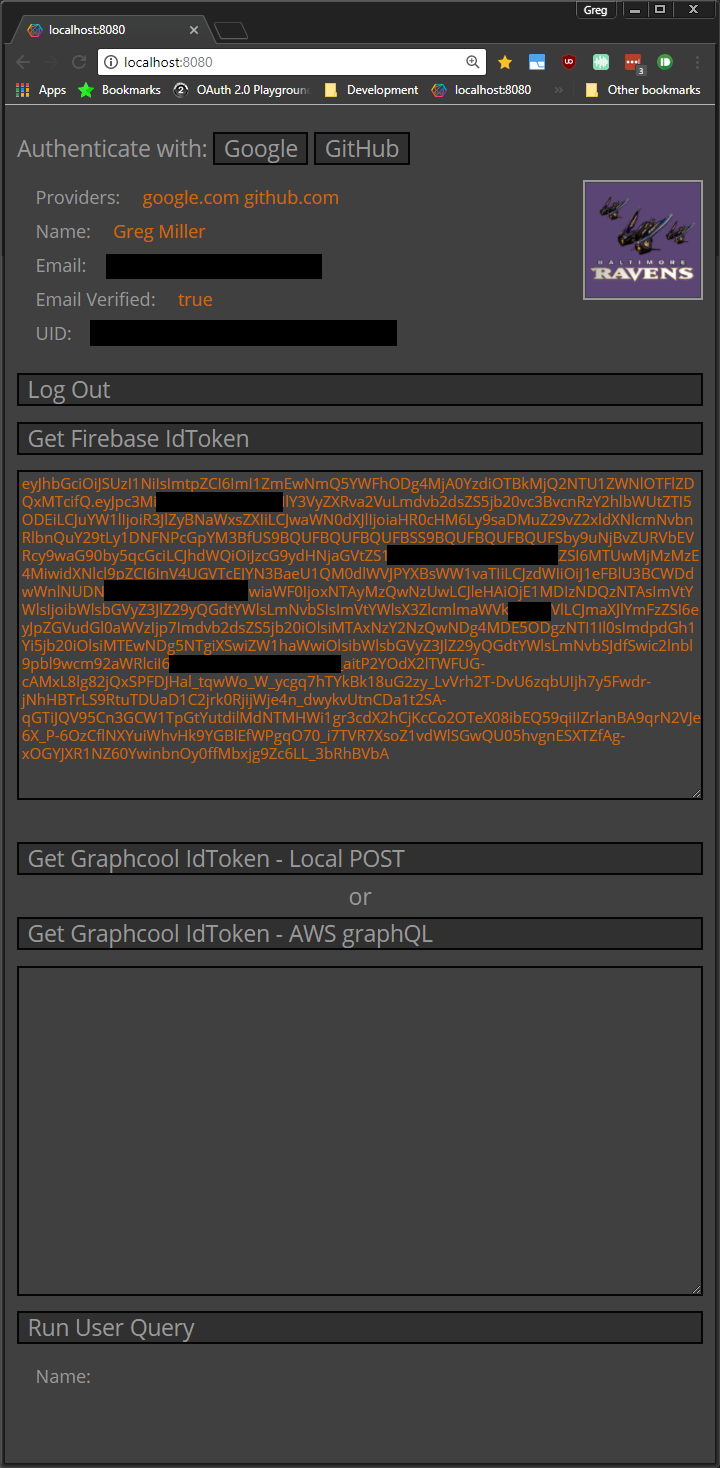
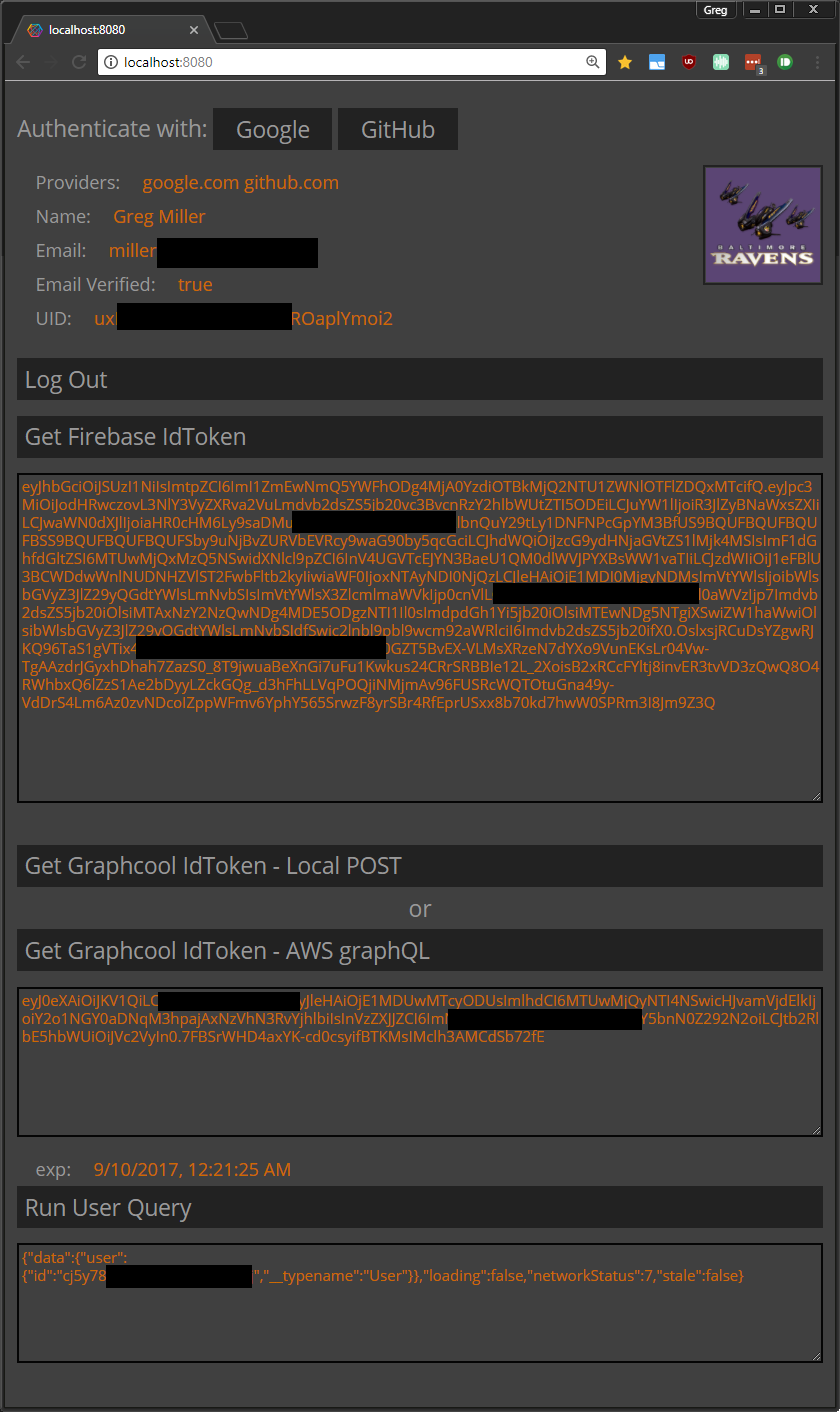
added exp to result

diff --git a/examples/one-page/index.js b/examples/one-page/index.js
@@ -80,6 +80,7 @@ function getFirebaseIdToken() {
 
 function getGraphcoolTokenViaPOST(endPoint) {
   populateGraphcoolIdToken("loading...");
+  populateGraphcoolExp();
   const firebaseIdToken = _.escape(
     document.getElementById("firebaseIdTokenTextArea").value
   );
@@ -97,14 +98,26 @@ function getGraphcoolTokenViaPOST(endPoint) {
     })
   };
 
+  // all the thens to demonstrate unpacking of the object
   fetch(endPoint, reqInit)
-    .then(function(res) {
+    .then(res => {
       return res.json();
     })
-    .then(function(json) {
-      populateGraphcoolIdToken(json.data.token);
+    .then(json => {
+      console.log(json);
+      return json.data;
     })
-    .catch(function(error) {
+    .then(data => {
+      console.log(data);
+      return JSON.parse(data.wrappedToken);
+    })
+    .then(wrappedToken => {
+      console.log(wrappedToken);
+      populateGraphcoolIdToken(wrappedToken.token);
+      populateGraphcoolExp(wrappedToken.exp);
+      return;
+    })
+    .catch(error => {
       populateGraphcoolIdToken(error);
     });
 }
@@ -118,7 +131,7 @@ function getGraphcoolTokenViaGQL() {
   const authenticateFirebaseUser = `
     mutation ($firebaseIdToken: String!) {
       authenticateFirebaseUser(firebaseIdToken: $firebaseIdToken) {
-        token
+        wrappedToken
       }
     }
   `;
@@ -132,7 +145,9 @@ function getGraphcoolTokenViaGQL() {
       } else if (res.error) {
         populateGraphcoolIdToken(res.error);
       } else {
-        populateGraphcoolIdToken(res.data.authenticateFirebaseUser.token);
+        const wrappedToken = JSON.parse(res.data.authenticateFirebaseUser.wrappedToken);
+        populateGraphcoolIdToken(wrappedToken.token);
+        populateGraphcoolExp(wrappedToken.exp);
       }
     })
     .catch(err => {
@@ -149,20 +164,10 @@ function runUserQuery() {
   networkInterface.use([
     {
       applyMiddleware(request, next) {
-        console.log(request);
         if (!request.options.headers) {
           request.options.headers = {};
         }
         request.options.headers["authorization"] = `Bearer ${graphcoolIdToken}`;
-        console.log(request);
-        next();
-      }
-    }
-  ]);
-  networkInterface.useAfter([
-    {
-      applyAfterware({ response }, next) {
-        console.log(response);
         next();
       }
     }
@@ -221,6 +226,17 @@ function populateFirebaseIdToken(token) {
 
 function populateGraphcoolIdToken(token) {
   document.getElementById("graphcoolIdTokenTextArea").value = token;
+}
+
+function populateGraphcoolExp(exp) {
+  if (exp) {
+    var myDate = new Date( exp *1000);
+    // document.write(myDate.toGMTString()+"<br>"+myDate.toLocaleString());
+    document.getElementById("graphcoolTokenExp").innerText = myDate.toLocaleString();
+    }
+    else {
+      document.getElementById("graphcoolTokenExp").innerText = "";
+    }
 }
 
 function populateQueriedUser(response) {

diff --git a/examples/one-page/build/dark-theme.css b/examples/one-page/build/dark-theme.css
@@ -55,6 +55,7 @@ body, textarea, input, button {
 	top:  0px;
 	position: absolute;
 	border: 1px solid;
+	border-color: #222222;
 }
 
 #container {
@@ -65,12 +66,13 @@ body, textarea, input, button {
 }
 
 button {
-	display: inline-flex;
-  border: 1px solid;
-  background-color: #303030;
-  border-color: #050505;
-  margin-bottom: 10px;
-  width: 100%;
+	display: inline-block;
+	border: 0;
+	background-color: #222222;
+	margin-bottom: 10px;
+	padding: 5px;
+	width: 100%;
+	/* text-align: center; */
 }
 
 button#testPostFunctionDebug {
@@ -89,13 +91,21 @@ button#testGQL {
   text-align: center;
 }
 
-button#authenticateWithGoogle, button#authenticateWithGitHub {
+button.provider {
   width: unset;
+  padding-left: 15px;
+  padding-right: 15px;
 }
+
 textarea#graphcoolIdTokenTextArea {
 	height: 100px;
+	margin-bottom: 0px;
 }
 
 textarea#queriedGraphcoolUserTextArea {
   height: 80px;
+}
+
+button#runUserQuery {
+  margin-top: 10px;
 }

diff --git a/examples/one-page/build/index.html b/examples/one-page/build/index.html
@@ -8,8 +8,8 @@
   <script src="bundle.js"></script>
   <div id="container">
     <span>Authenticate with:</span>
-    <button id="authenticateWithGoogle">Google</button>
-    <button id="authenticateWithGitHub">GitHub</button>
+    <button class="provider" id="authenticateWithGoogle">Google</button>
+    <button class="provider" id="authenticateWithGitHub">GitHub</button>
     <div id="userInfoContainer">
       <div class="row">
         <span>Providers: </span>
@@ -44,6 +44,10 @@
     <button id="testGQL">Get Graphcool IdToken - AWS graphQL</button>
     <br>
     <textarea class="textArea" id="graphcoolIdTokenTextArea"></textarea>
+    <div class="row">
+      <span>exp: </span>
+      <span class="userInfo" type="text" id="graphcoolTokenExp"></span>
+    </div>
     <button id="runUserQuery">Run User Query</button>
     <textarea class="textArea" id="queriedGraphcoolUserTextArea"></textarea>
 </body>

diff --git a/src/firebase-auth.js b/src/firebase-auth.js
@@ -6,6 +6,7 @@
 
 import * as admin from "firebase-admin";
 import Graphcool, { fromEvent } from "graphcool-lib";
+const jwt = require("jsonwebtoken");
 const lambdaProxy = require("lambda-proxy-response");
 
 const pat = process.env.graphcoolPAT;
@@ -55,8 +56,14 @@ export const AuthenticateFirebaseToken = async (event: any) => {
       graphcoolUserId,
       graphcool
     );
+
+    const decoded = jwt.decode(graphcoolToken);
+    const expiration = decoded.exp;
+
     return lambdaProxy.response(200, null, {
-      data: { token: graphcoolToken }
+      data: {
+        wrappedToken: JSON.stringify({ token: graphcoolToken, exp: expiration })
+      }
     });
   } catch (error) {
     return lambdaProxy.response(503, null, {

diff --git a/webpack.config.js b/webpack.config.js
@@ -1,4 +1,5 @@
 const path = require("path");
+const webpack = require("webpack");
 const nodeExternals = require("webpack-node-externals");
 
 module.exports = {
@@ -9,6 +10,11 @@ module.exports = {
     libraryTarget: "commonjs2",
     filename: "src/handler.js"
   },
+  plugins: [
+    new webpack.DefinePlugin({
+      "process.env.NODE_ENV": JSON.stringify("production")
+    })
+  ],
   target: "node",
   externals: [nodeExternals()],
   module: {

diff --git a/README.md b/README.md
@@ -134,12 +134,12 @@ This mutation will authenticate a user:
 mutation {
   # replace __FIREBASE_TOKEN__!
   authenticateFirebaseUser(firebaseIdToken: "__FIREBASE_TOKEN__") {
-    token
+    wrappedToken
   }
 }
 ```
 
-You should see that a new user has been created. The returned token can be used to authenticate requests to your Graphcool API as that user. Note that running the mutation again with the same Firebase token will not add a new user.
+You should see that a new user has been created. The returned object (wrappedToken) contains a token (token) which can be used to authenticate requests to your Graphcool API as that user.  The expiration date (exp) is also included.  Note that running the mutation again with the same Firebase token will not add a new user.
 
 ### Token management
 The Firebase web sdk keeps a user signed in indefinitely by default.  But only signed in to Firebase.  Firebase will provide a valid Id Token any time an app calls `auth().currentUser.getIdToken()`.
